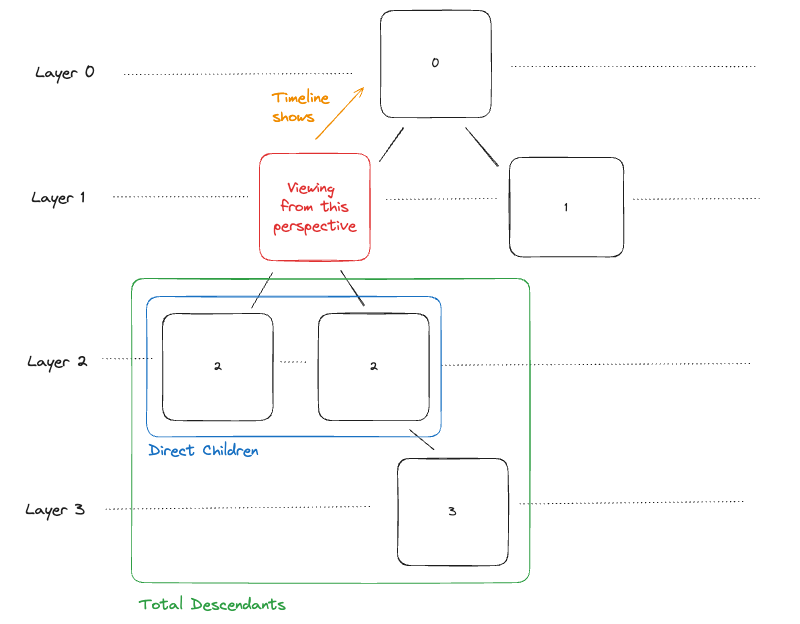
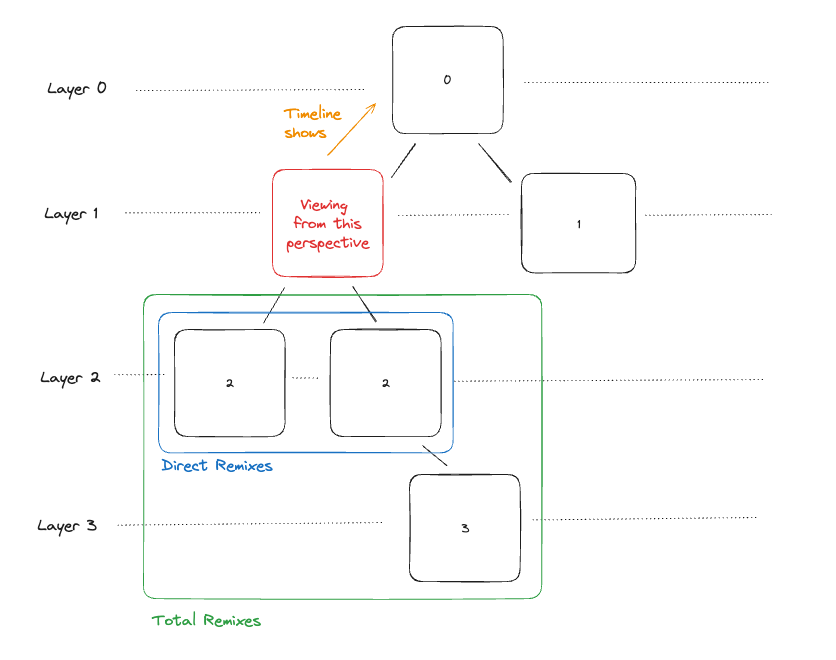
change wording back to remixes

diff --git a/lib/components/frames/RootFrame.tsx b/lib/components/frames/RootFrame.tsx
@@ -174,8 +174,8 @@ export default function RootFrame({ castInfo, imageSrc, type }: { castInfo: Cast
                             margin: 0
                         }}>
                             <span style={{ fontWeight: 'bold' }}>Refresh for stats:</span>
-                            <span>- direct children: <span style={{ backgroundColor: 'lightgrey', padding: '5px', borderRadius: '5px' }}>{castInfo.num_derivatives}</span></span>
-                            <span>- total descendants: <span style={{ backgroundColor: 'lightgrey', padding: '5px', borderRadius: '5px' }}>{castInfo.num_total_derivatives}</span></span>
+                            <span>- direct remixes: <span style={{ backgroundColor: 'lightgrey', padding: '5px', borderRadius: '5px' }}>{castInfo.num_derivatives}</span></span>
+                            <span>- total remixes: <span style={{ backgroundColor: 'lightgrey', padding: '5px', borderRadius: '5px' }}>{castInfo.num_total_derivatives}</span></span>
                         </p>
                     }
                 </div>
